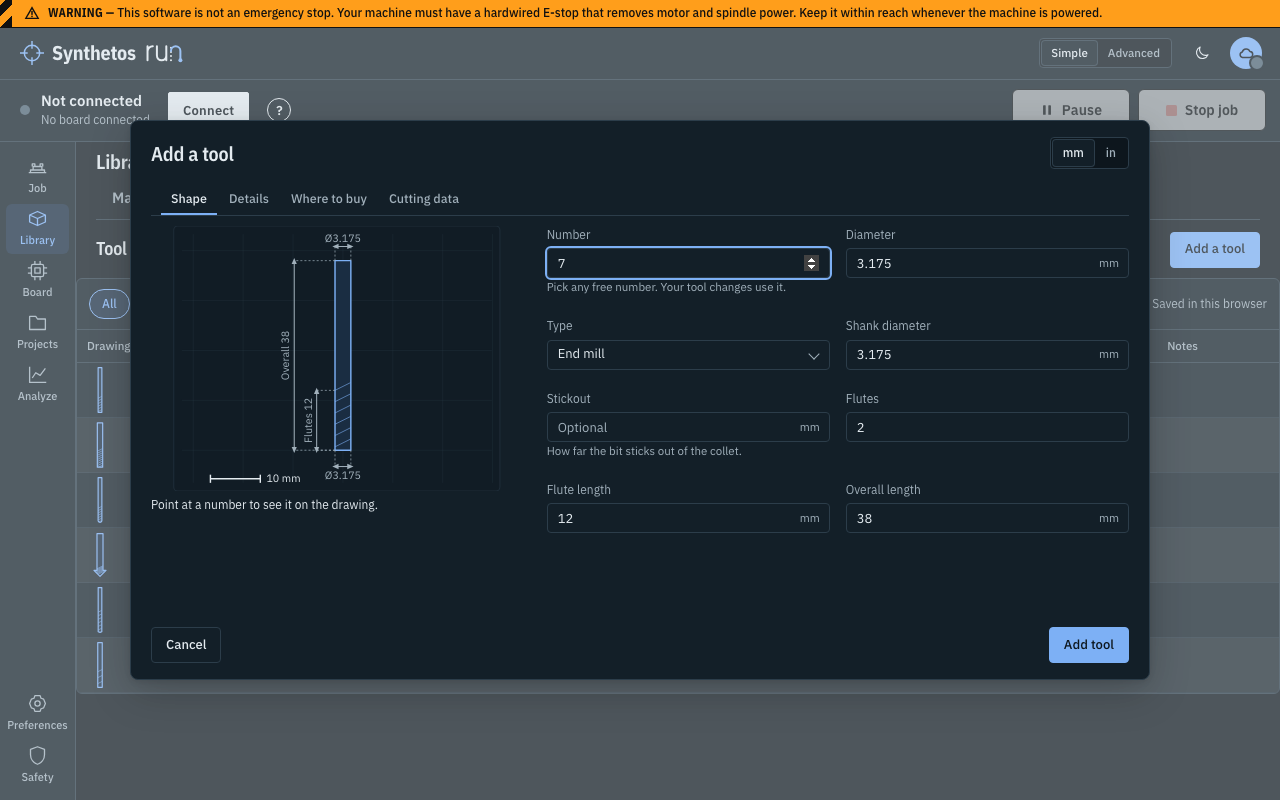
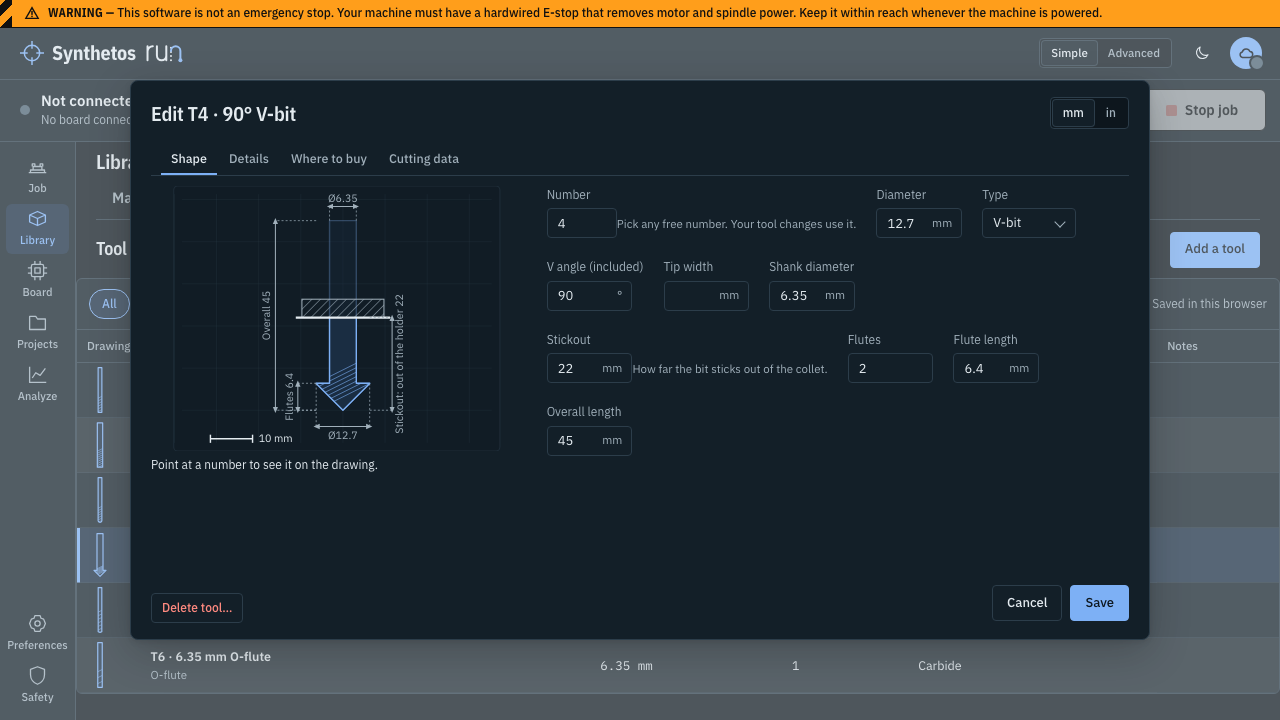
Fix maker-review browser tests: chips at bottom, tool fields sized to content, cutting form layout, catalog spec intent

diff --git a/tools/e2e/specs/setup-wizard-layout.fake-serial.ts b/tools/e2e/specs/setup-wizard-layout.fake-serial.ts
@@ -176,7 +176,13 @@ for (const theme of ['light', 'dark'] as const) {
       expect(barBottom).toBeGreaterThan(0);
       expect(await catalog.boundingBox()).toEqual({ x: 0, y: barBottom, width, height: height - barBottom });
       await expectW1Visible(page);
-      expect(await catalog.locator('tbody tr').count()).toBeGreaterThan(10);
+      // A browsable list with no typing: the full count, a pager when there is more than one page, and a first page of at least 5 rows.
+      const total = Number(await catalog.locator('[data-catalog-count]').getAttribute('data-catalog-count'));
+      await expect(catalog.locator('[data-catalog-count]')).toHaveText(`${total} tools`);
+      const rows = await catalog.locator('tbody tr').count();
+      expect(rows).toBeGreaterThanOrEqual(5);
+      if (total > rows) await expect(catalog.locator('.pager:not(.single)')).toBeVisible();
+      expect(await catalog.evaluate(el => el.scrollHeight <= el.clientHeight)).toBe(true);
       await expect(catalog.getByLabel('Search catalog')).toHaveValue('');
       await expect(page.locator('[data-action="wizard-catalog-back"]')).toBeFocused();
       // The frame under the page is inert (review minor 11).
@@ -190,7 +196,7 @@ for (const theme of ['light', 'dark'] as const) {
       expect(box !== null && box.x >= 0 && box.y >= 0 && box.x + box.width <= width && box.y + box.height <= height).toBe(true);
       await modal.locator('[data-action="save-tool"]').click();
       await expect(catalog).toHaveCount(0);
-      await expect(wizard(page).locator('[data-wizard="tool"]')).toContainText('6.35 mm');
+      await expect(wizard(page).locator('[data-wizard="tool"]')).toContainText('T7 · Up-cut spiral'); // MR-25: catalog tools carry their catalog name, not the size fallback
       await expect(page.locator('[data-wizard-step="5"]')).toBeVisible();
       // Focus is back on the button that opened the page, in a live frame (review minor 11).
       await expect(page.locator('.wizard-dialog')).not.toHaveAttribute('inert', '');

diff --git a/apps/web/src/styles/features.css b/apps/web/src/styles/features.css
@@ -513,10 +513,10 @@ a.button svg, .report-actions button svg { width: 15px; height: 15px; }
 .tool-modal .tool-figure-svg { max-height: 265px; }
 .tool-modal .field { margin-top: 0; }
 .tool-modal .field-grid, .tool-details-grid { display: flex; flex-wrap: wrap; gap: 8px 20px; }
-.tool-modal .field-grid > .field:has(input:not([type="number"]), textarea) { flex: 1 1 100%; }
+.tool-modal .field-grid > .field:has(> input:not([type="number"]), > textarea) { flex: 1 1 100%; }
 .tool-modal .field .unit-input { display: inline-flex; width: auto; }
 .tool-modal .field input[type="number"] { width: 9ch; }
-.tool-modal .field .unit-input input[type="number"] { width: 11ch; }
+.tool-modal .field .unit-input input { width: 11ch; }
 .tool-modal .field select { width: auto; min-width: 12ch; max-width: 100%; }
 .tool-modal .field input, .tool-modal .field select { height: 30px; }
 .tool-modal .field textarea { width: 100%; min-height: 64px; }
@@ -534,8 +534,9 @@ a.button svg, .report-actions button svg { width: 15px; height: 15px; }
 .cutting-table-footer { display: flex; align-items: center; justify-content: space-between; gap: 12px; margin-top: 10px; }
 .cutting-table-footer .tool-pages { margin-left: auto; display: flex; align-items: center; gap: 6px; }
 .cutting-row-form .field-grid > .field { margin-bottom: 0; }
-.tool-modal .cutting-row-form .field-grid { grid-template-columns: repeat(3, minmax(0, 1fr)); align-items: start; }
-@media (max-width: 760px) { .tool-modal .cutting-row-form .field-grid { grid-template-columns: repeat(2, minmax(0, 1fr)); } }
+.tool-modal .cutting-row-form .field-grid { align-items: start; gap: 6px 16px; }
+.tool-modal .cutting-row-form .field-grid > .field:has(> input) { flex: 0 0 auto; }
+.tool-modal .cutting-row-form .field input { width: 13ch; }
 .tool-modal .cutting-note { display: block; margin-top: 4px; font-family: var(--sans); }
 
 .cutting-row-form > .cutting-row-actions { margin-bottom: 8px; }

diff --git a/apps/web/src/styles/workspace.css b/apps/web/src/styles/workspace.css
@@ -1744,7 +1744,7 @@ button.tool-legend-entry[aria-pressed="true"] { box-shadow: 0 0 0 1px var(--rule
 .scene-links { display: inline-flex; flex-wrap: wrap; align-items: center; gap: 6px; }
 .scene-links button.link { font-size: 12px; text-align: left; }
 /* The 3D view's light mode (preview/frameBudget.ts): a small chip in the drawing's bottom-right corner, left of the help button. */
-.preview-chips { position: absolute; right: 44px; top: 48px; display: flex; flex-direction: column; align-items: flex-end; gap: 4px; max-width: calc(100% - 60px); pointer-events: none; }
+.preview-chips { position: absolute; right: 44px; bottom: 12px; display: flex; flex-direction: column; align-items: flex-end; gap: 4px; max-width: calc(100% - 60px); pointer-events: none; }
 .preview-light-chip { position: static; max-width: 100%; white-space: nowrap; overflow: hidden; text-overflow: ellipsis; pointer-events: none; font-size: 11.5px; padding: 3px 8px; border-radius: var(--r-sm); background: color-mix(in srgb, var(--sheet) 92%, transparent); border: 1px solid var(--rule); color: var(--muted); }
 .scene-pick-label { position: absolute; pointer-events: none; font-size: 12px; padding: 3px 7px; border-radius: var(--r-sm); background: color-mix(in srgb, var(--sheet) 92%, transparent); border: 1px solid var(--rule); white-space: nowrap; z-index: var(--z-raised); }
 .preview-svg .pv-pickable { cursor: pointer; }

diff --git a/docs/design/MAKER_REVIEW.md b/docs/design/MAKER_REVIEW.md
@@ -54,6 +54,12 @@ Commits are on `maker-review`. Hashes are short.
 
 Tonight's walkthrough found no regression, so there is no extra fix commit.
 
+Follow-up (browser-test fixes):
+- MR-13: the viewer chips sit bottom-right again, stacked, so the file prompt card is above them.
+- MR-14: tool-editor number fields were full width after MR-34 (text inputs matched the full-row rule). Now sized to content, so every tool tab fits 1280x720. Hints kept. MR-14-after screenshots retaken.
+- MR-34: cutting-row form fields sized to content (Apply is back inside the pane). The dead three-column rule is removed.
+- Wizard catalog spec (147) now checks the full count, a pager and at least 5 rows with no inner scroll, and the catalog name from MR-25 ("Up-cut spiral").
+
 Partly done (not finished):
 - MR-14: field reorder skipped (Type, Diameter, Flutes, Number). Tool tests focus the Number field.
 - MR-26: Materials list and Machine catalogue grid still scroll inside their own panels.
